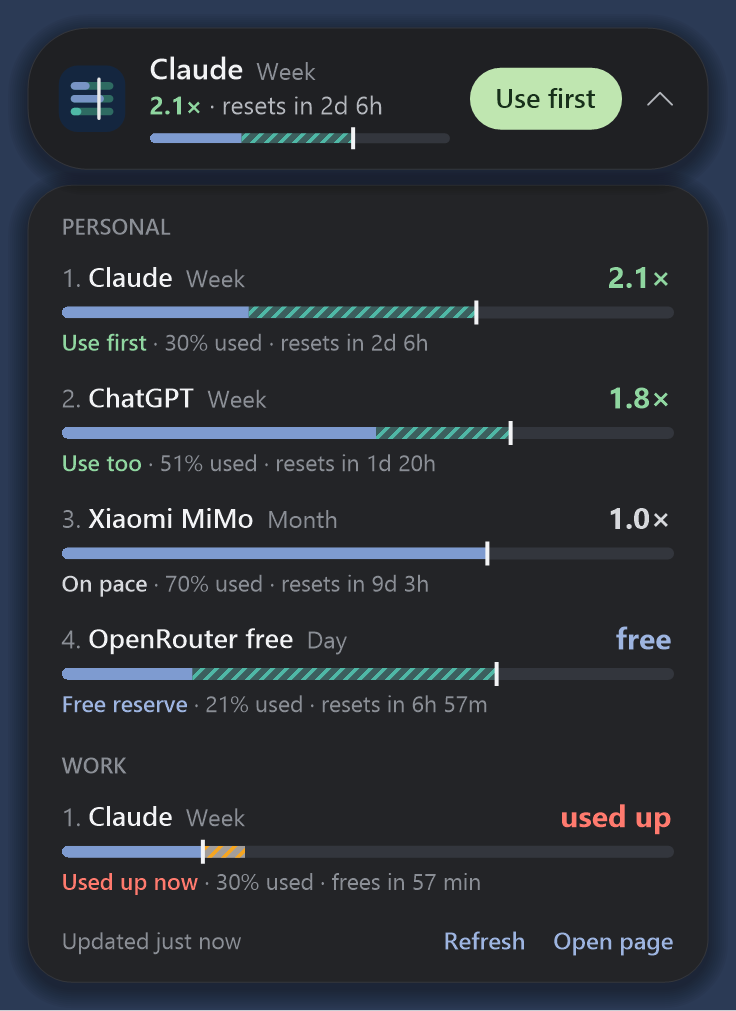
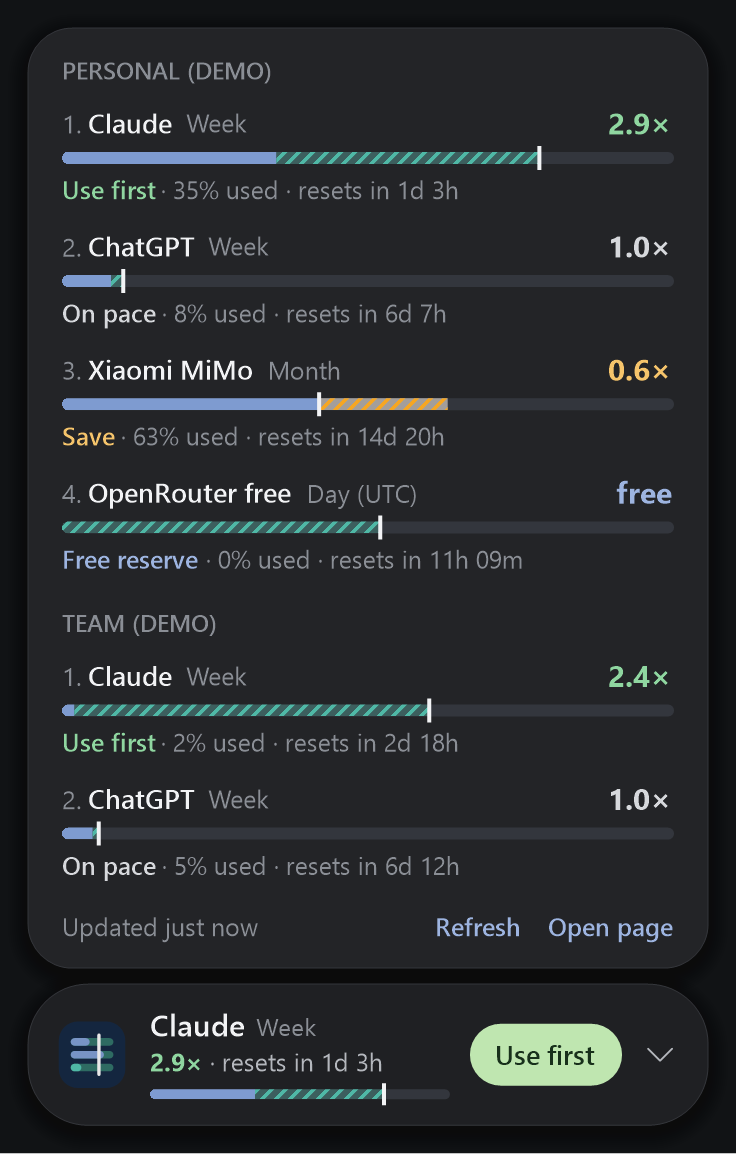
Improve Windows mini text clarity; release 0.3.1

diff --git a/tokenpace/mini.py b/tokenpace/mini.py
@@ -579,7 +579,7 @@ class Canvas:
         gp["GdipGetImageGraphicsContext"](bitmap, ctypes.byref(self.g))
         gp["GdipSetSmoothingMode"](self.g, 4)          # antialias
         gp["GdipSetPixelOffsetMode"](self.g, 4)        # half
-        gp["GdipSetTextRenderingHint"](self.g, 4)      # antialias: ClearType can't blend with per-pixel alpha
+        gp["GdipSetTextRenderingHint"](self.g, 3)      # grid-fitted antialias; safe with per-pixel alpha
         gp["GdipGraphicsClear"](self.g, 0)
         gp["GdipScaleWorldTransform"](self.g, scale, scale, 0)
         self._fonts: dict[tuple, tuple] = {}
@@ -787,7 +787,9 @@ def clip16(text: str, units: int) -> str:
     return "".join(out)
 
 
-ROW_H = 6 + 15 * LH + 2 + 12 + 1 + 11.5 * LH + 4
+SECONDARY_SIZE = 12.5
+GROUP_SIZE = 12.0
+ROW_H = 6 + 15 * LH + 2 + 12 + 1 + SECONDARY_SIZE * LH + 4
 
 
 class View:
@@ -819,7 +821,7 @@ class View:
         for g in self.groups:
             if not g["items"]:
                 continue
-            h += (2 if first else 12) + 11 * LH + 2
+            h += (2 if first else 12) + GROUP_SIZE * LH + 2
             first = False
             h += len(g["items"]) * ROW_H
         return h
@@ -828,7 +830,7 @@ class View:
         list_h = self.rows_h()
         if self.max_list_h is not None:
             list_h = min(list_h, self.max_list_h)
-        return 1 + 10 + list_h + 10 + 12 * LH + 12 + 1
+        return 1 + 10 + list_h + 10 + SECONDARY_SIZE * LH + 12 + 1
 
     def panel_chrome_h(self) -> float:
         return self.panel_h() - min(self.rows_h(), self.max_list_h if self.max_list_h is not None else 1e9)
@@ -926,8 +928,8 @@ class View:
                 yy += 2 if first else 12
                 first = False
                 if list_y - 20 < yy < list_y + view_h:
-                    c.runs([(g["label"].upper(), Canvas.SEMIBOLD, 11, C["muted"])], ix, yy, 11 * LH, iw)
-                yy += 11 * LH + 2
+                    c.runs([(g["label"].upper(), Canvas.SEMIBOLD, GROUP_SIZE, C["muted"])], ix, yy, GROUP_SIZE * LH, iw)
+                yy += GROUP_SIZE * LH + 2
                 for p in g["items"]:
                     if yy + ROW_H < list_y or yy > list_y + view_h:
                         yy += ROW_H   # outside the visible list: nothing to draw
@@ -941,12 +943,12 @@ class View:
             c.round_rect(x + WIDTH - 7, ty, 3, th, 1.5, fill=argb("#FFFFFF", 50))
         fy = list_y + view_h + 10
         status = "" if self.groups is None else (self.error or "Updated " + ago(self.at))
-        c.runs([(status or " ", Canvas.REGULAR, 11.5, C["warn"] if self.error else C["muted"])], ix, fy, 12 * LH, iw * 0.55)
+        c.runs([(status or " ", Canvas.REGULAR, SECONDARY_SIZE, C["warn"] if self.error else C["muted"])], ix, fy, SECONDARY_SIZE * LH, iw * 0.55)
         right = ix + iw
         for label, action in (("Open page", "open"), ("Refresh", "refresh")):
-            w = c.measure(label, Canvas.SEMIBOLD, 12)
-            c.runs([(label, Canvas.SEMIBOLD, 12, C["link"])], right - w, fy, 12 * LH, w + 2)
-            self.hits.append((right - w - 4, fy - 2, w + 8, 12 * LH + 4, action, "hand"))
+            w = c.measure(label, Canvas.SEMIBOLD, SECONDARY_SIZE)
+            c.runs([(label, Canvas.SEMIBOLD, SECONDARY_SIZE, C["link"])], right - w, fy, SECONDARY_SIZE * LH, w + 2)
+            self.hits.append((right - w - 4, fy - 2, w + 8, SECONDARY_SIZE * LH + 4, action, "hand"))
             right -= w + 14
 
     def draw_row(self, c: Canvas, p: dict, x: float, y: float, w: float) -> float:
@@ -955,13 +957,13 @@ class View:
         pw = c.measure(pace, Canvas.BOLD, 15)
         c.runs([(pace, Canvas.BOLD, 15, level_ink(p["level"]))], x + w - pw - 1, y, 15 * LH, pw + 2)
         c.runs([(f"{p['rank']}. ", Canvas.REGULAR, 13, C["muted"]), (p["name"], Canvas.SEMIBOLD, 13.5, C["ink"]),
-                ("  " + p["window"], Canvas.REGULAR, 12, C["muted"])], x, y, 15 * LH, w - pw - 8)
+                ("  " + p["window"], Canvas.REGULAR, SECONDARY_SIZE, C["muted"])], x, y, 15 * LH, w - pw - 8)
         y += 15 * LH + 2
         c.pace_bar(x, y + 3, w, 6, p["used"], p["elapsed"])
         y += 12 + 1
-        c.runs([(p["verdict"], Canvas.SEMIBOLD, 11.5, level_ink(p["level"])),
-                (f" · {round(p['used'])}% used · {when_text(p)}", Canvas.REGULAR, 11.5, C["muted"])], x, y, 11.5 * LH, w)
-        return y + 11.5 * LH + 4
+        c.runs([(p["verdict"], Canvas.SEMIBOLD, SECONDARY_SIZE, level_ink(p["level"])),
+                (f" · {round(p['used'])}% used · {when_text(p)}", Canvas.REGULAR, SECONDARY_SIZE, C["muted"])], x, y, SECONDARY_SIZE * LH, w)
+        return y + SECONDARY_SIZE * LH + 4
 
 
 def ago(t: float) -> str:

diff --git a/tokenpace/__init__.py b/tokenpace/__init__.py
@@ -1,3 +1,3 @@
 """Token Pace: which AI subscription to use first, from % of quota used vs % of the period elapsed."""
 
-__version__ = "0.3.0"
+__version__ = "0.3.1"

diff --git a/README.md b/README.md
@@ -51,7 +51,7 @@ git clone https://github.com/LuizPiccini/tokenpace && cd tokenpace
 python -m tokenpace serve --demo          # synthetic data at http://localhost:8787
 ```
 
-Or install the command: `pipx install git+https://github.com/LuizPiccini/tokenpace@v0.3.0`.
+Or install the command: `pipx install git+https://github.com/LuizPiccini/tokenpace@v0.3.1`.
 
 Then describe your own subscriptions:
 
@@ -162,7 +162,7 @@ to see every plan; drag it anywhere. A tray icon by the clock draws the top plan
 opens a menu (refresh, open the page, settings, start with Windows, reset position, quit).
 It reads `/api/widget` like the Android widget.
 
-<img src="docs/windows-mini.png" alt="The Windows mini window, expanded" width="340">
+<img src="docs/windows-mini.png" alt="The Windows mini window, expanded with synthetic demo data" width="368">
 
 ```powershell
 pythonw -m tokenpace mini        # no console window

diff --git a/INSTALL.md b/INSTALL.md
@@ -31,7 +31,7 @@ Token Pace needs Python 3.11 or newer and nothing else. Run `python3 --version` 
 ## 2. Install
 
 ```sh
-pipx install git+https://github.com/LuizPiccini/tokenpace@v0.3.0
+pipx install git+https://github.com/LuizPiccini/tokenpace@v0.3.1
 tokenpace --version
 tokenpace collect --demo
 ```
@@ -41,7 +41,7 @@ work the same in Windows PowerShell.
 
 If pipx is missing, install it (`python3 -m pip install --user pipx`, then
 `python3 -m pipx ensurepath`) or use `python3 -m pip install --user
-git+https://github.com/LuizPiccini/tokenpace@v0.3.0`. If `tokenpace` is not found afterwards, the
+git+https://github.com/LuizPiccini/tokenpace@v0.3.1`. If `tokenpace` is not found afterwards, the
 install's script directory is not on PATH; run `pipx ensurepath` and open a new shell.
 Note the full path from `command -v tokenpace` (`where tokenpace` on Windows) for step 6.
 
